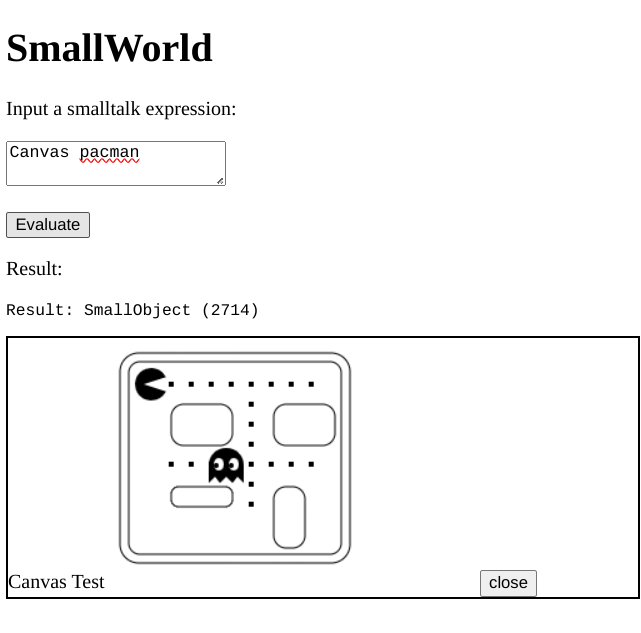
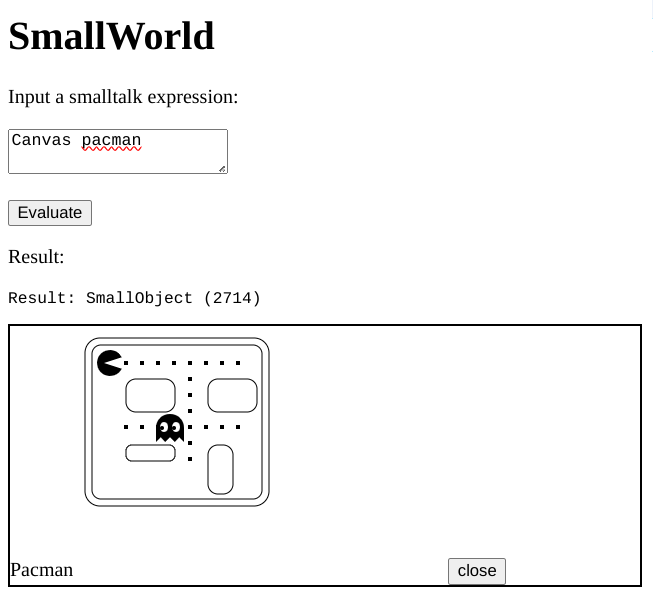
Scale canvas
This trick should make the canvas width and height slightly better
because it keeps the drawing canvas to a fixed width and height but
adjusts the physical size on screen by the screen's DPI.

diff --git a/html/html_ui.js b/html/html_ui.js
@@ -208,8 +208,16 @@ export class UiHandler {
         const tagName = stack[--stackTop].toString();
         const newElt = document.createElement(tagName);
         if (tagName === "canvas") {
-          newElt.width = 300;
-          newElt.height = 200;
+          // We want a 300x200 drawing grid (specified by style)
+          // but a slightly different physical size to smooth for
+          // this screen.
+          const WIDTH = 300;
+          const HEIGHT = 200;
+          const dpi = window.devicePixelRatio;
+          newElt.width = WIDTH * dpi;
+          newElt.height = HEIGHT * dpi;
+          newElt.style.width = `${WIDTH}px`;
+          newElt.style.height = `${HEIGHT}px`;
           const ctx = newElt.getContext("2d");
           canvasToContext.set(newElt, ctx);
         }
